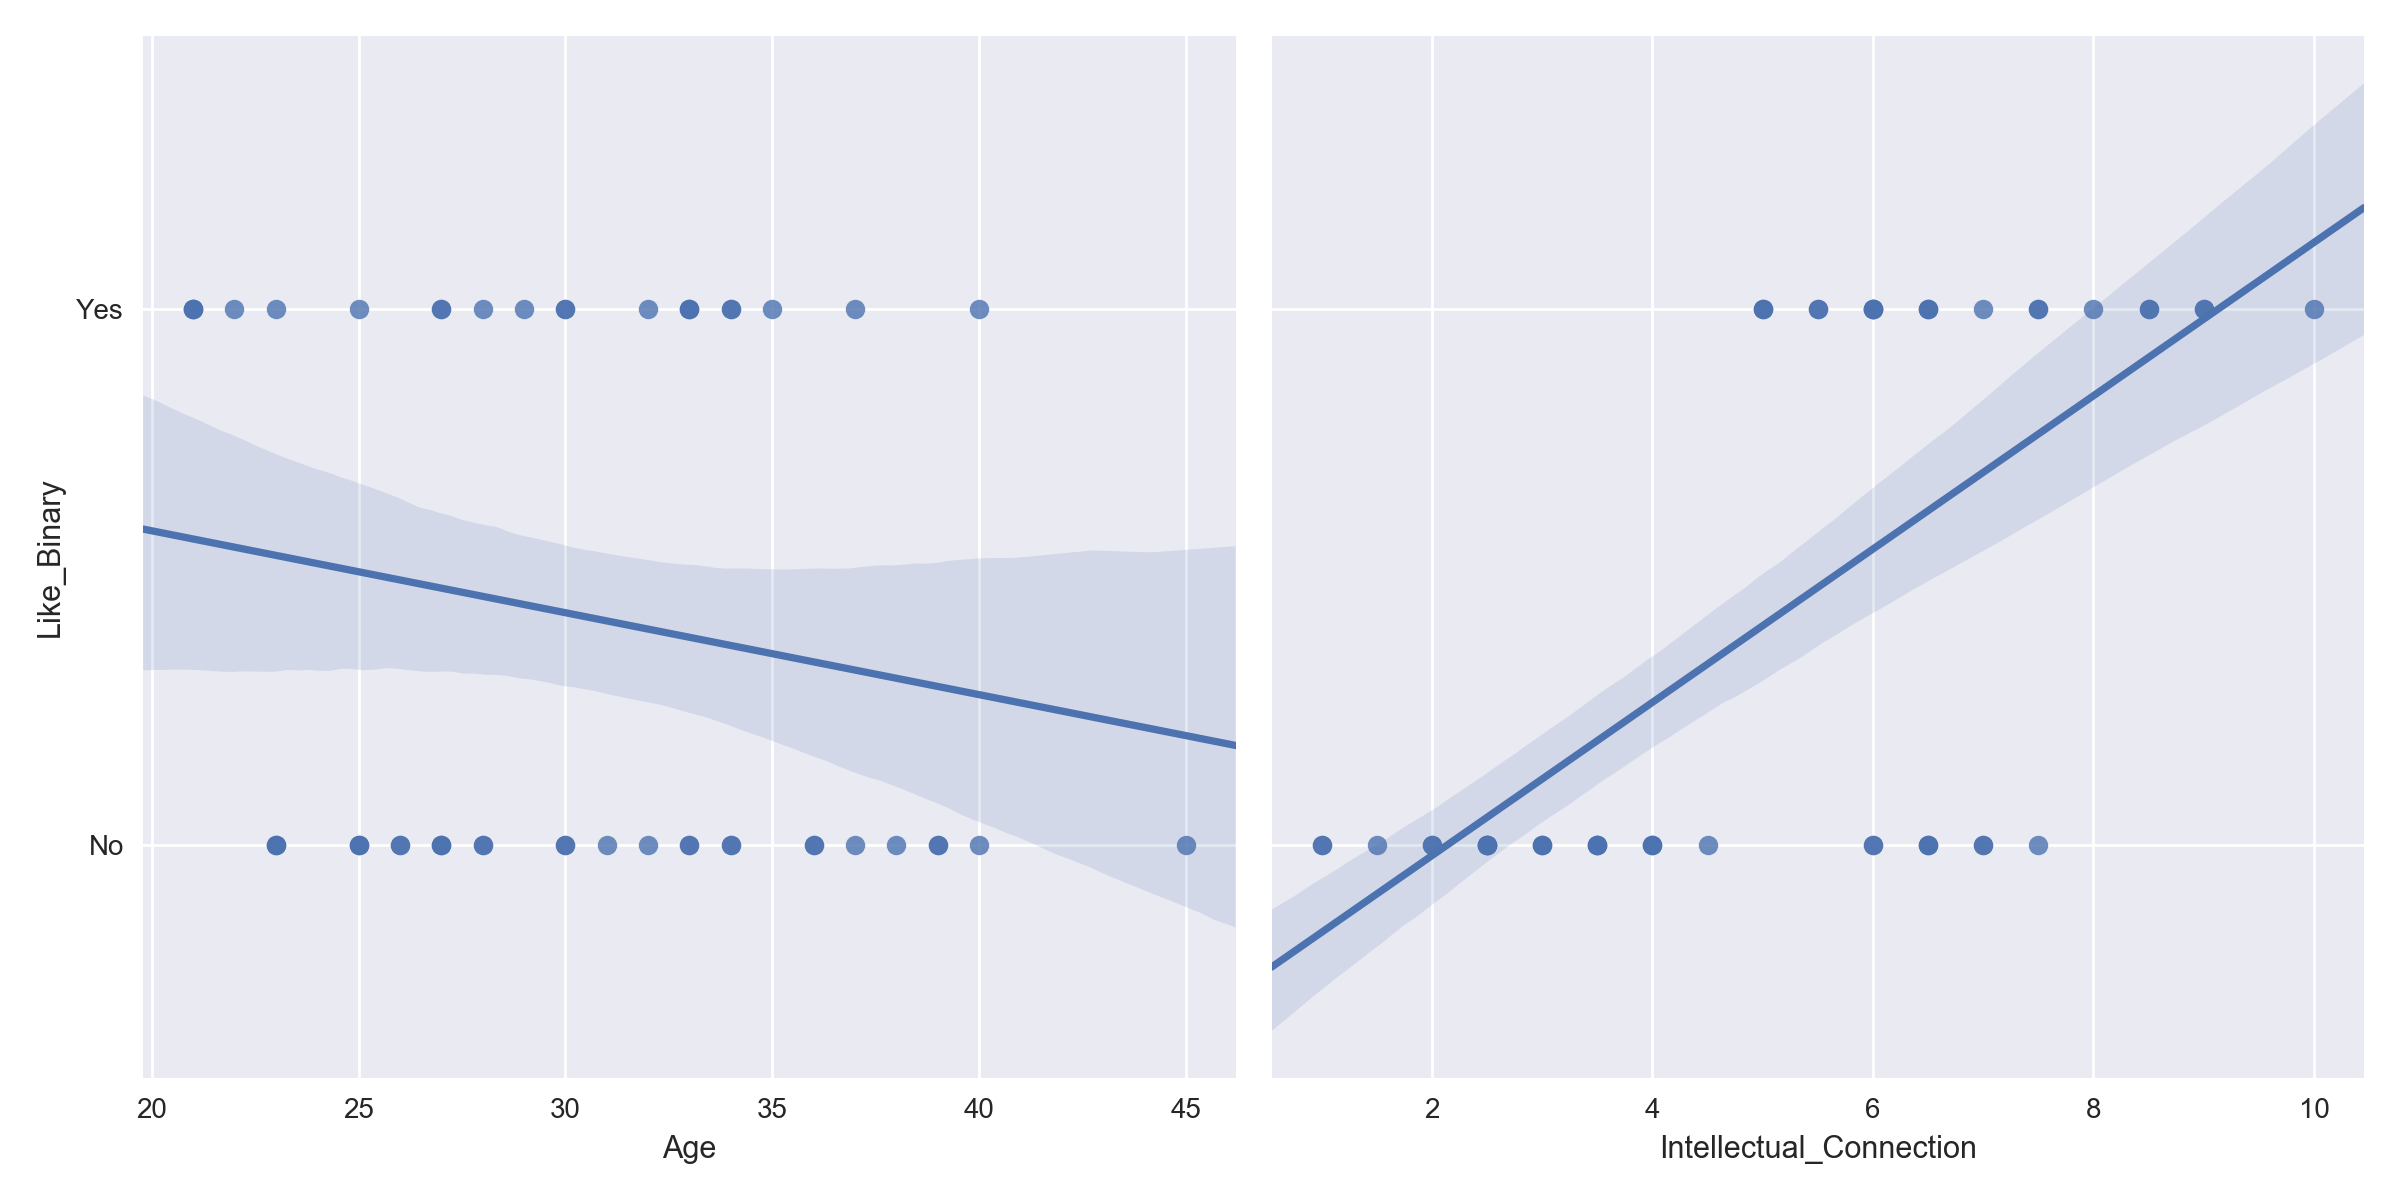
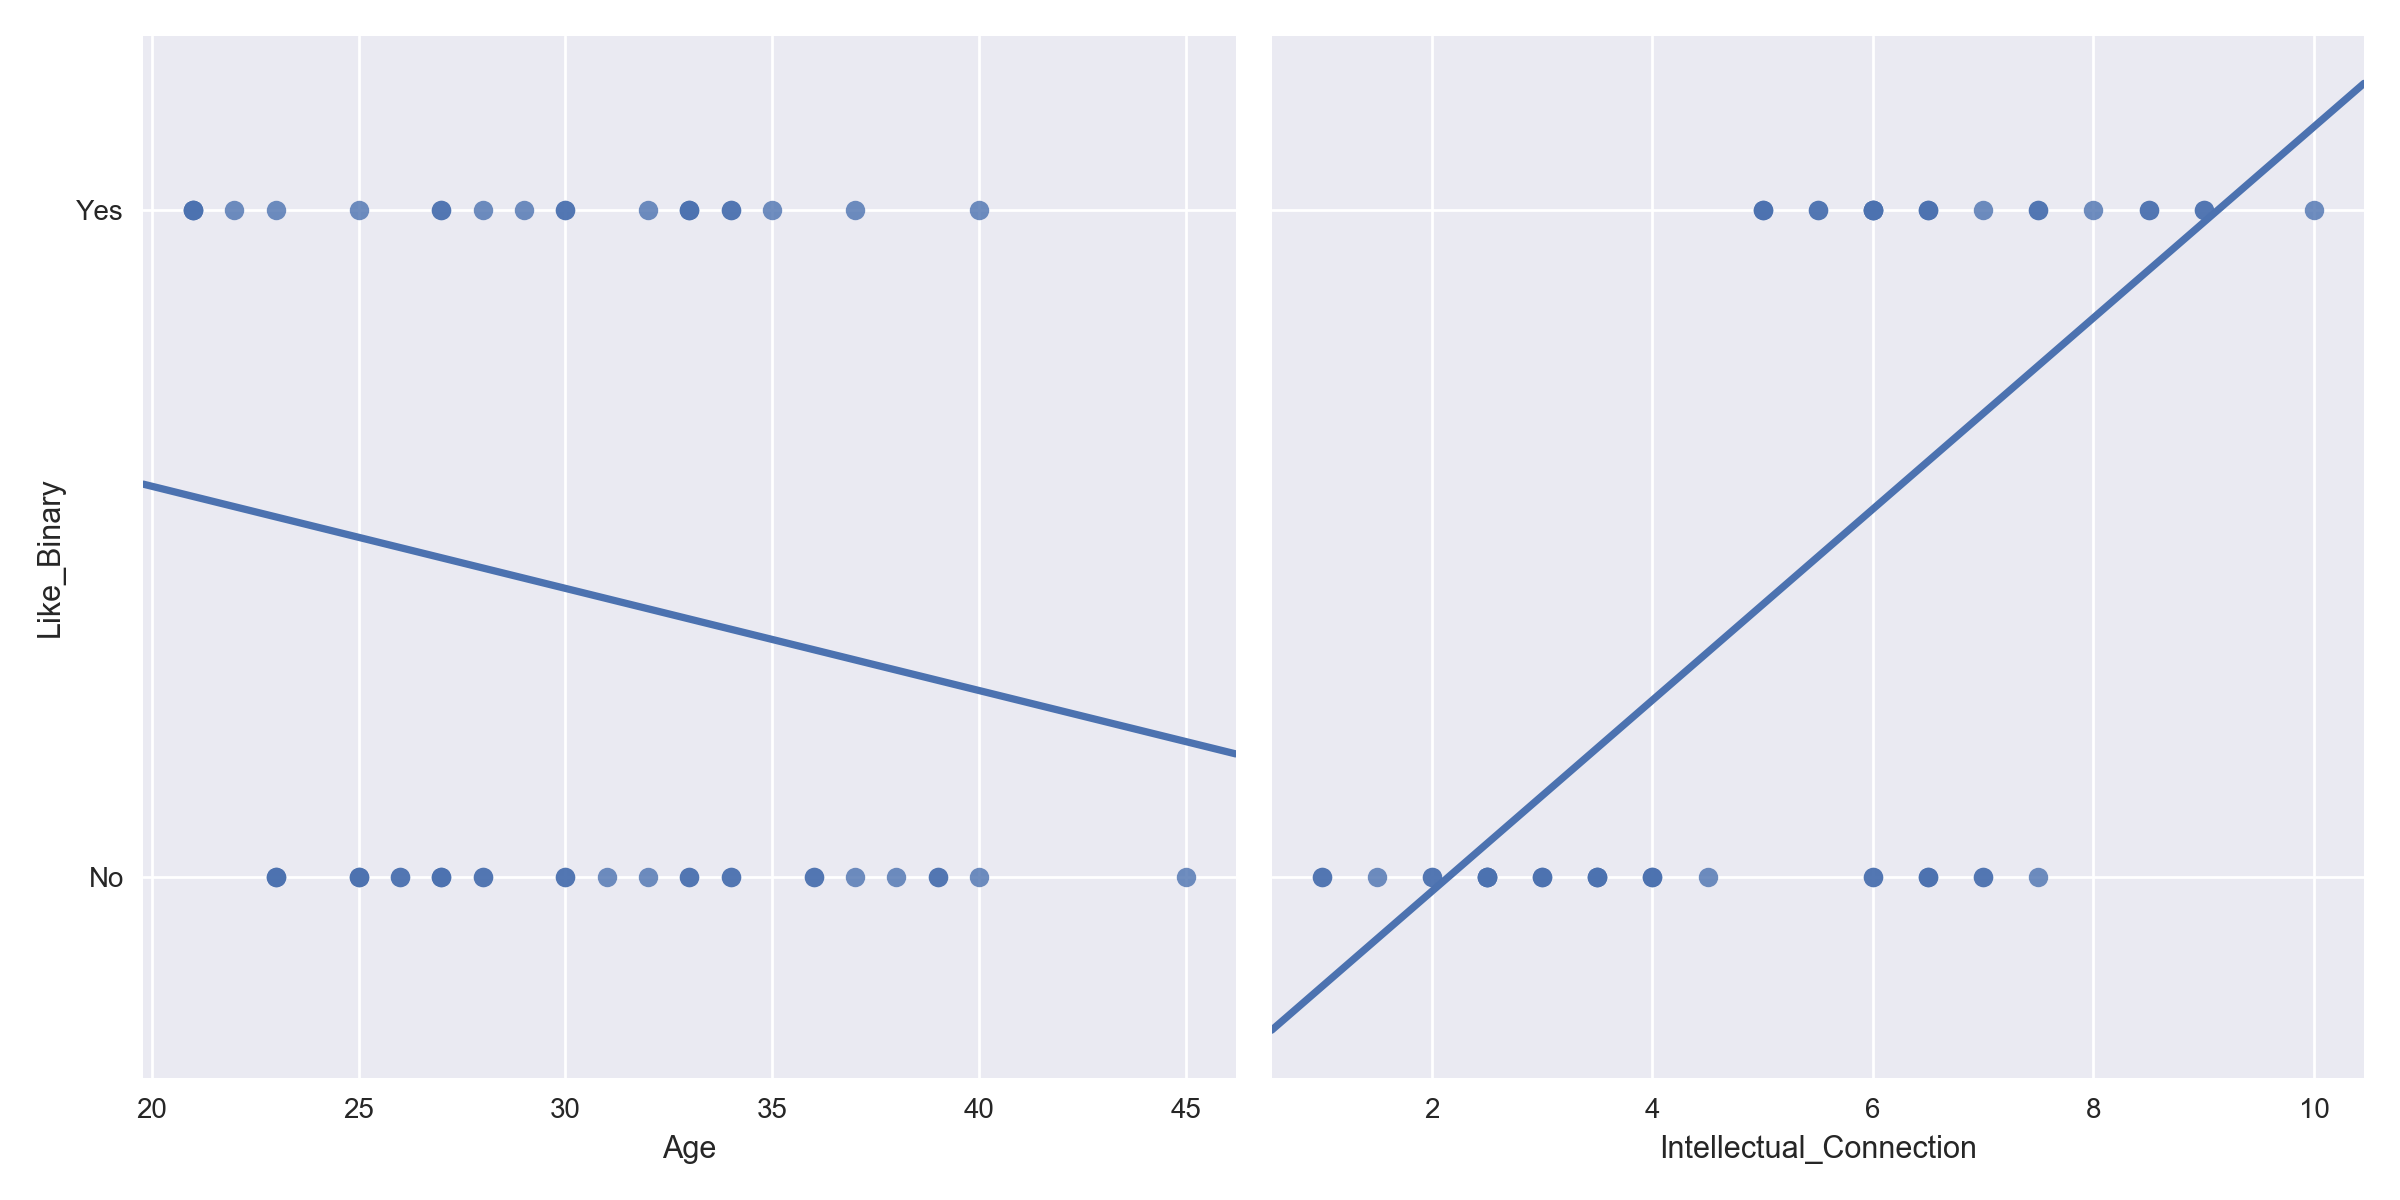
add image

diff --git a/dating_data_model.py b/dating_data_model.py
@@ -1,5 +1,6 @@
 import numpy as np
 import pandas as pd
+from sklearn.linear_model import LogisticRegression
 import xgboost as xgb
 import seaborn as sns
 import matplotlib.pyplot as plt
@@ -60,10 +61,30 @@ def feat_importances(df, mod):
         print("{r}. {feat}: {imp:.1f}%".format(r=idx, feat=itm[1], imp=itm[0] * 100))
 
 
+def plot_pairs(df):
+    sns.pairplot(data=df, x_vars=['Age', 'Intellectual_Connection'], y_vars=['Like_Binary'], kind='reg', size=6, plot_kws=dict(ci=0))
+    plt.yticks([0, 1], ['No', 'Yes'])
+    plt.tight_layout()
+    plt.show()
+    plt.close()
+
+
+def get_logit_coeff(df, col):
+    """
+    Get coefficient from logit model.
+    INPUT:
+    OUTPUT:
+    """
+    clf = LogisticRegression(C=1.0, penalty='l1', tol=1e-6)
+    clf.fit(df[col].values.reshape(-1, 1), df['Like_Binary'].values.ravel())
+    return clf.coef_
+
+
+
 if __name__ == '__main__':
     df = load_data()
     df = make_dummies(df)
-
+    df, age = bin_age(df)
     y = df.pop('Like_This_Person?').values
     X = df.values
 
@@ -71,15 +92,15 @@ if __name__ == '__main__':
     mod = xgb.XGBClassifier(n_estimators=500, learning_rate=.5, max_depth=4)
     mod.fit(X, y)
     feat_importances(df, mod)
-    # feats = list(zip(mod.feature_importances_, df.columns.tolist()))
-    # sorted(feats, reverse=True)
-    # df['Age'] = age
+    # Add Binary version of target col back for plotting and Logit
+    df['Like_Binary'] = np.array([1 if x == 'Yes' else 0 for x in y])
+    df['Age'] = age
 
-y_binary = np.array([1 if x == 'Yes' else 0 for x in y])
+
 # sns.jointplot(x=df['Intellectual_Connection'].values, y=y_binary, kind='reg', ratio=10)
 # sns.regplot(x=df['Intellectual_Connection'].values, y=y_binary, ci=0)
-df['Like_Binary'] = y_binary
-sns.pairplot(data=df, x_vars=['Age', 'Intellectual_Connection', 'Attraction'], y_vars=['Like_Binary'], kind='reg')
+
+sns.pairplot(data=df, x_vars=['Age', 'Intellectual_Connection'], y_vars=['Like_Binary'], kind='reg', size=6, plot_kws=dict(ci=0))
 # plt.title("Intellectual Connection vs. 'Liking' A Date (R2 = +0.650)")
 # plt.xlabel('Intellectual Connection (scale 0-10)')
 # plt.ylabel('Did I "Like" This Person?')

diff --git a/README.md b/README.md
@@ -45,7 +45,7 @@ Let me quickly clarify how certain variables were assigned.
 
 <BR>
 
-### A Super Model
+### Super Model
 My main interest in this mini-project was simple: to see which variables had the strongest relationship to predicting whether or not I liked someone enough to consider dating them.  For this I used a Gradient Boosted Classifier from __XG Boost__.  I intentionally overfit the model (500 trees, tree depth of 4, and learning rate of 50%) because I am not interested in building a predictive algorithm using the limited variables I have.  The primary issue in doing so is that some of the variables such as attraction, humor, intellectual connection, chemistry, politics, and second date can only be answered fairly after I've met someone.  Thus this is a _descriptive_ project and not an _inferential_ or _predictive_ one.
 
 
@@ -74,11 +74,42 @@ Rank | Feature                 | Importance
 
 <sub> __Table 2:__ The top 10 features from my initial run, without _Chemistry_, and without any data prep apart from dummied variables.</sub>
 
-My initial reaction to this result was one of surprise.  Age?  Really?  That's the overwhelmingly most predictive feature for whether or not I liked someone?  That sure didn't _feel_ right, so I did a quick visual inspection to see if this made sense.
+My initial reaction to this result was one of surprise.  Age?  Really?  That's the overwhelmingly most predictive feature for whether or not I liked someone?  That sure didn't _feel_ right, so I did a quick visual inspection to see if this made sense by looking at the basic Pearson R<sup>2</sup> correlation between _Age_ and a binary version of the _Like_This_Person?_ target, as well as the same for _Attraction_.
 
-<img src="images/age_intellect_like_pair_plot.png" alt="Comparison of Age and Intellectual Connection correlation to 'Liking' someone."
+<img src="images/age_intellect_like_pair_plot.png" alt="Comparison of Age and Intellectual Connection correlation to 'Liking' someone.">
 
 <sub> __Figure 1:__ Comparison of Age and Intellectual Connection correlation to 'Liking' someone.</sub>
 
+<BR>
+
+Visually the result doesn't support the feature importance results above.  The slope for _Age_ is much flatter than that for _Attraction_.  This is not a definitive result (for one, because we shouldn't use a linear regression in this situation); it's just a basic litmus test to see if things are in the right ballpark.  This plot suggests that we are not.  
+
+Curious, I wanted to find the basic correlation between _Age_, _Attraction, and _Like_This_Person?_ to further support that the initial feature importances seemed askew.  Since our dependent variable of _Like_This_Person?_ is binary, a standard OLS linear regression is [not advised](http://thestatsgeek.com/2015/01/17/why-shouldnt-i-use-linear-regression-if-my-outcome-is-binary/).  So, using __Sci-Kit Learn__'s `LogisticRegression` module (`C=1.0, penalty='l1'`), the following coefficients were calculated for the two variables in question.
+
+Variable   | Logit Coefficient
+-----------|:----------------:|
+Age        | -.011
+Attraction |  .353
+
+<sub> __Table 3:__ Logistic Regression coefficients for Age and Attraction, showing a greatly diminished importance for Age.</sub>
+
+<BR>
+
+This isn't meant to be a comprehensive logistic regression report using an optimally-tuned Logit model, but rather a guideline as to the relative importance of each feature.  So both graphically (__Figure 1__) and mathematically we are seeing that _Age_ does not appear to be particularly important.  But our (more advanced) gradient boosted model said that _Age_ was not just important, but the most important feature by a mile.  What gives?
+
+Well, this is where understanding what's going on "under the hood" for the models we are using shows its importance.  When using a decision tree-based model, of which gradient boosting is an ensemble version, there is a specific susceptibility for inflated feature importance reporting if a feature can take on a large range of unique values relative to other features in the dataset. <sup>[__1__](#fn1)</sup>
+
 
 ### What Factors Best Predict Whether I Will Want to Continue Dating Someone?
+
+
+
+
+
+
+
+
+
+
+### References
+<a name="fn1">1.</a> https://en.wikipedia.org/wiki/Information_gain_in_decision_trees#Drawbacks
